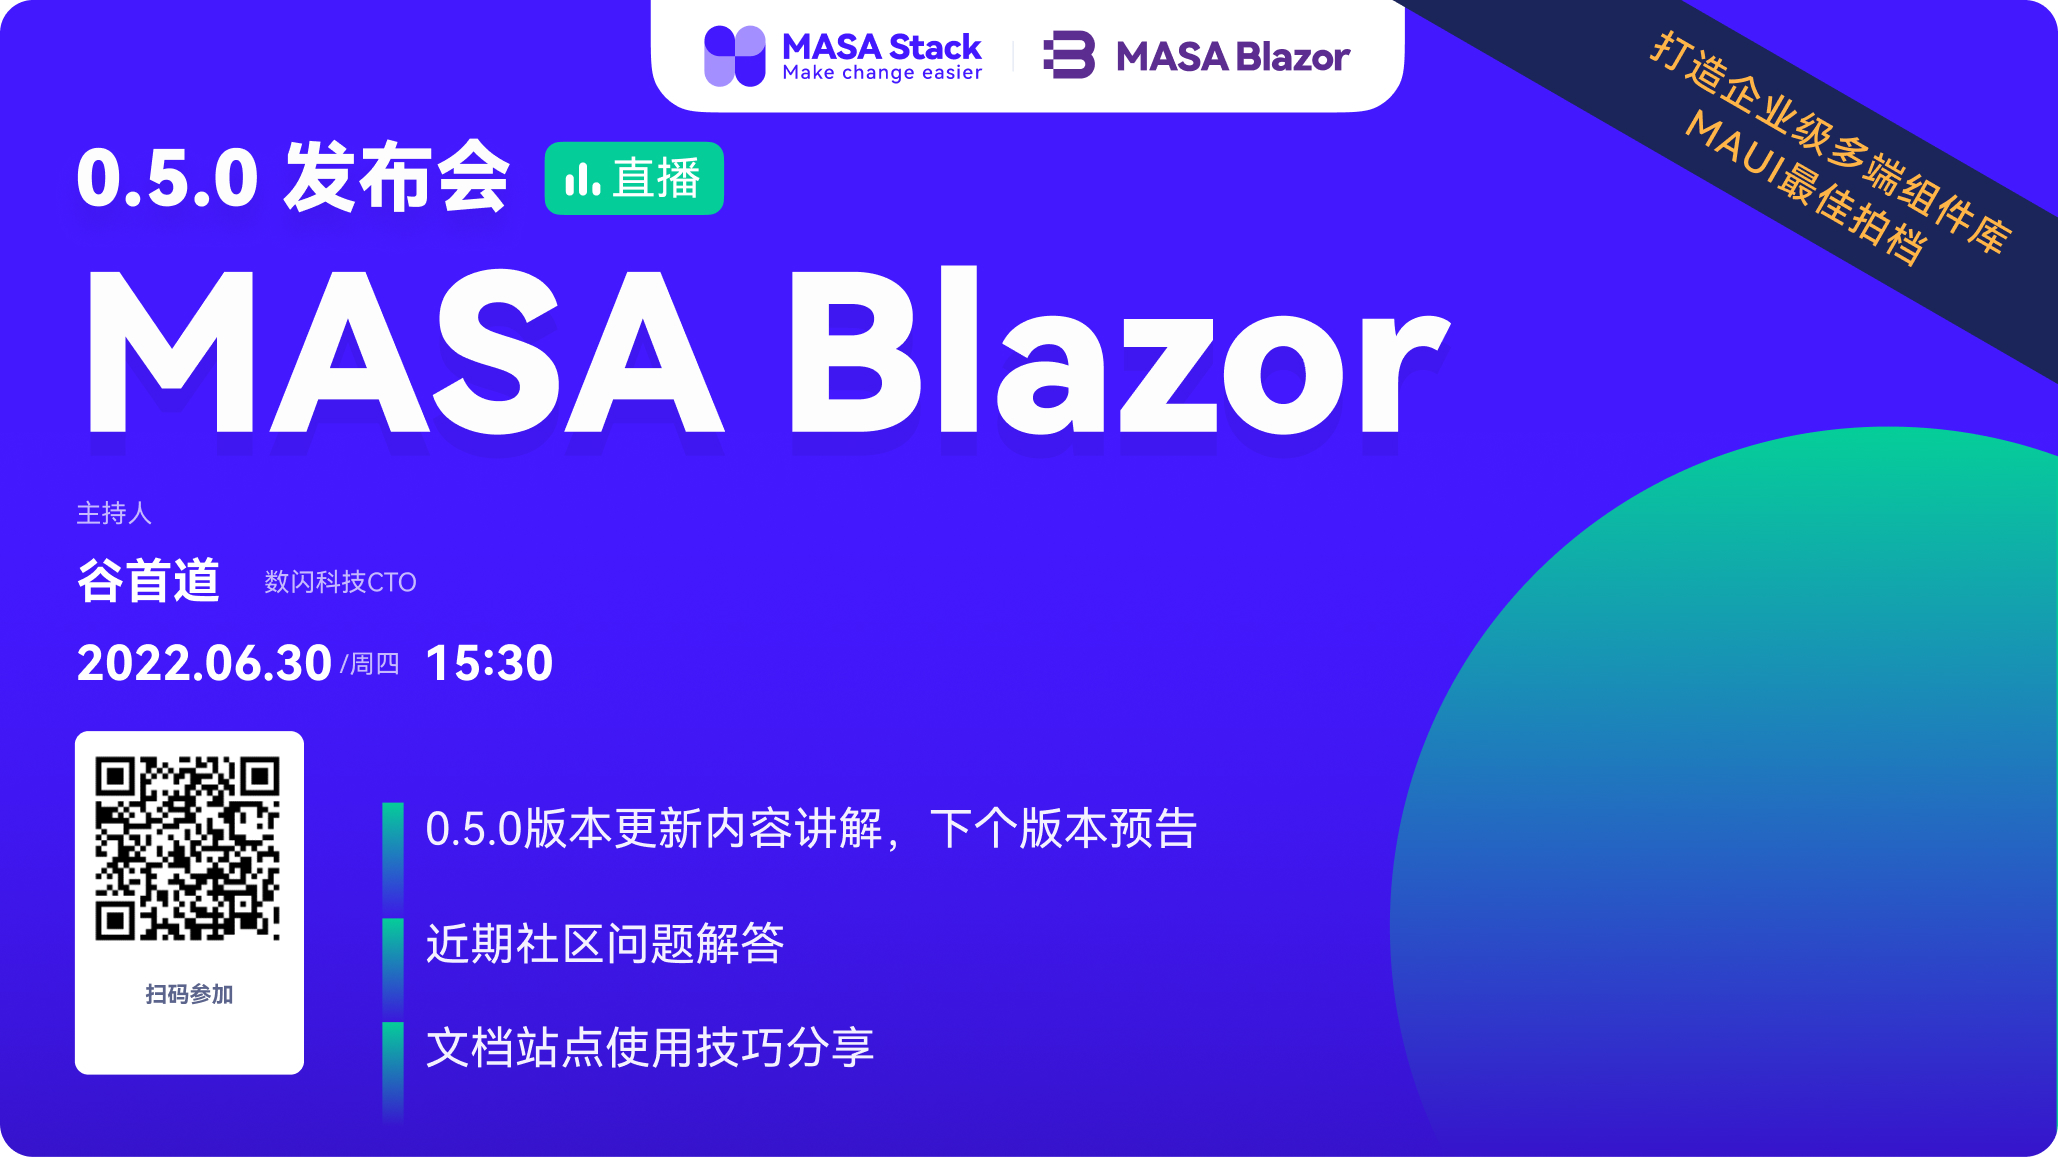
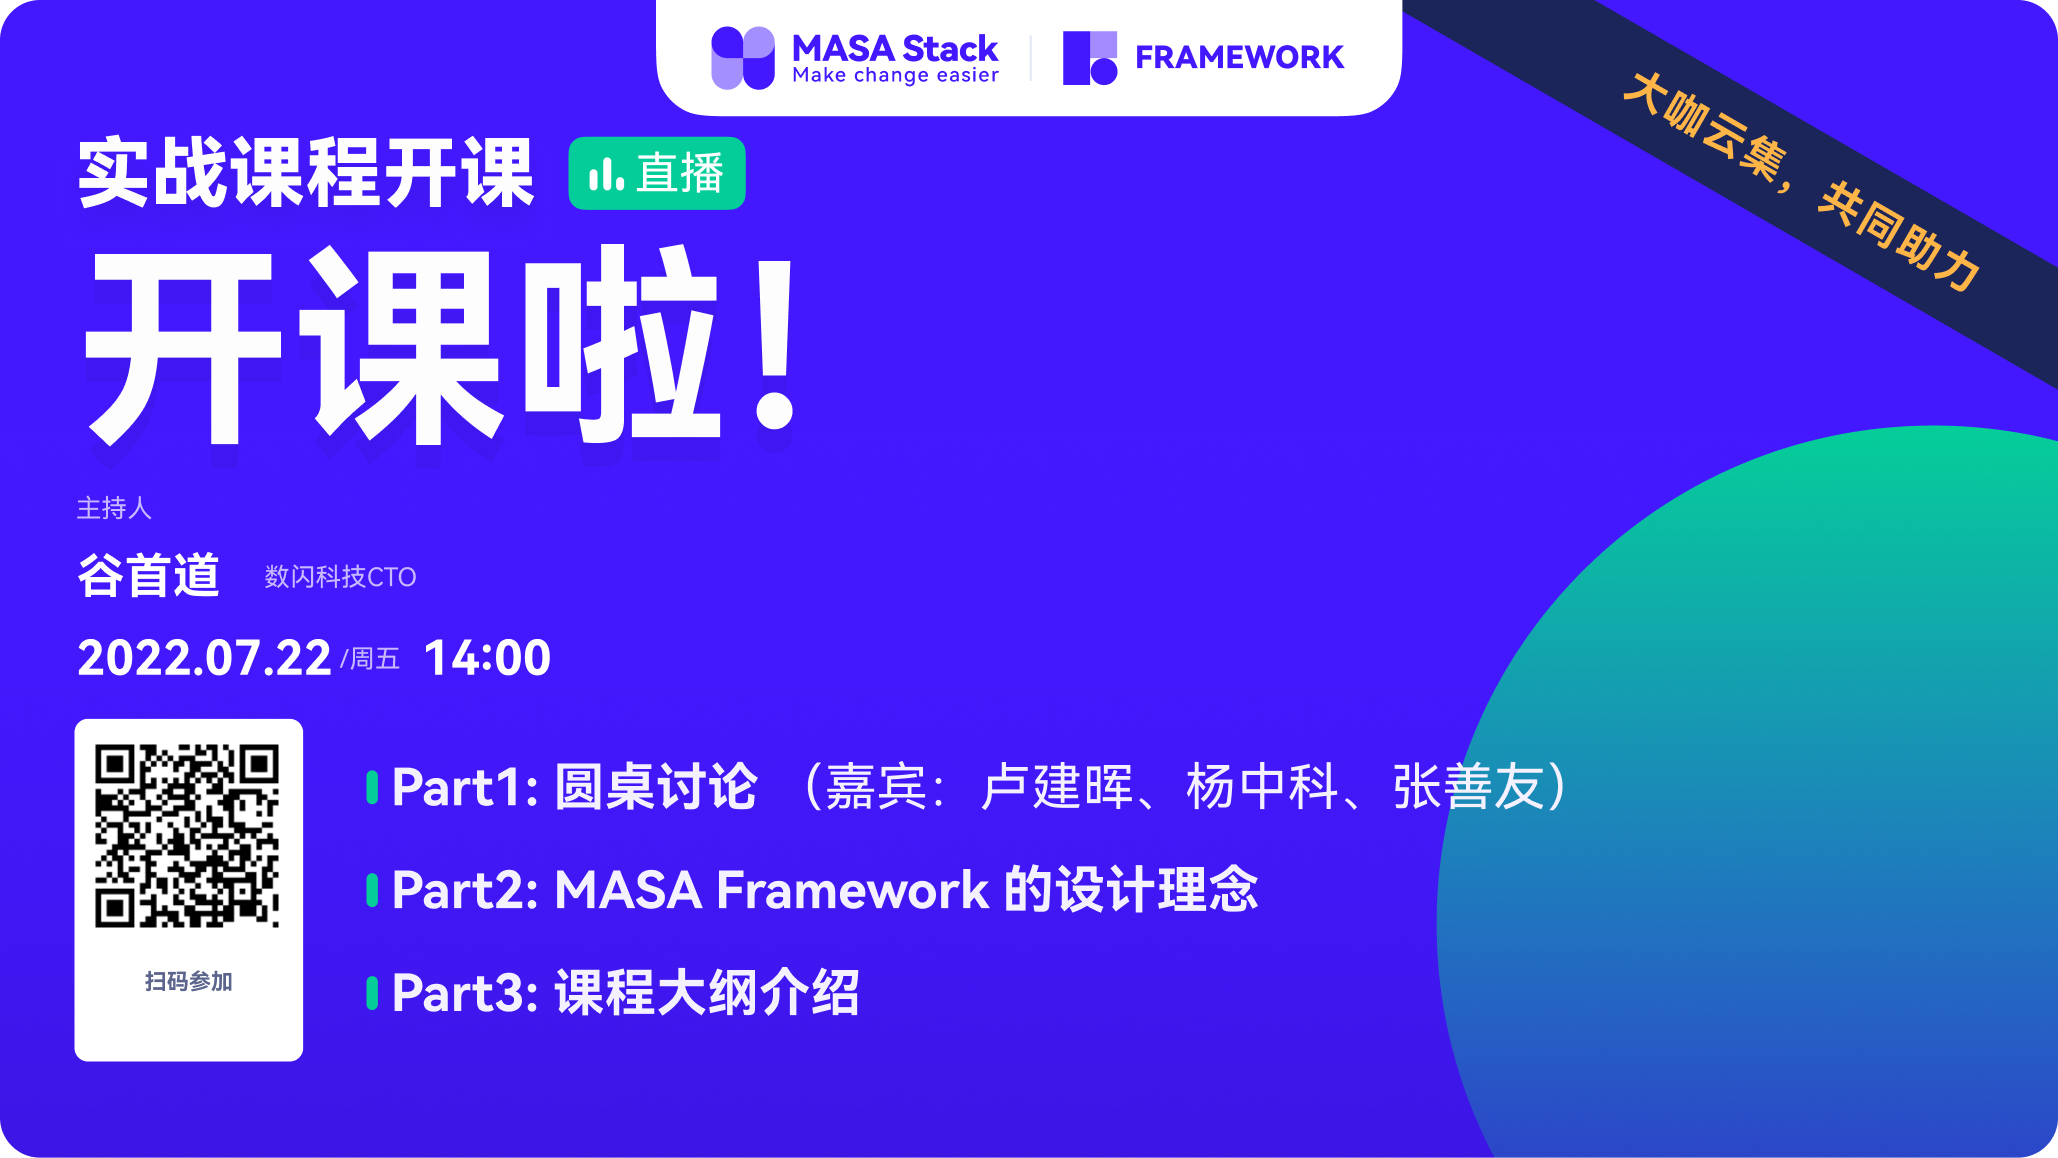
fix (#26)

diff --git a/src/MASA.OfficialWebsite.Shared/wwwroot/css/shared.css b/src/MASA.OfficialWebsite.Shared/wwwroot/css/shared.css
@@ -714,15 +714,19 @@ html {
         margin: 96px auto 0;
     }
 
-.activity-detail__button-text {
-    text-decoration: underline;
-    border-width: 0;
-    height: 36px;
-    font-size: 24px;
-    line-height: 36px;
-    padding: 0px 0px;
-    height: auto;
-}
+        .activity-detail__image-height{
+            height: 30vw;
+        }
+
+        .activity-detail__button-text {
+            text-decoration: underline;
+            border-width: 0;
+            height: 36px;
+            font-size: 24px;
+            line-height: 36px;
+            padding: 0px 0px;
+            height: auto;
+        }
 
 .website-shared .activity-content {
     max-width: 1596px;

diff --git a/src/MASA.OfficialWebsite.Shared/wwwroot/css/small-shared.css b/src/MASA.OfficialWebsite.Shared/wwwroot/css/small-shared.css
@@ -553,6 +553,10 @@
     width:auto;
 }
 
+.activity-detail__image-height {
+    height: 55vw;
+}
+
 .activity-detail__button-text {
     text-decoration: underline;
     border-width: 0;

diff --git a/src/MASA.OfficialWebsite.Shared/Pages/Activities.razor.cs b/src/MASA.OfficialWebsite.Shared/Pages/Activities.razor.cs
@@ -54,24 +54,9 @@ namespace MASA.OfficialWebsite.Shared.Pages
 
         private static readonly List<Activity> AllActivities = new()
         {
-            new Activity("MASA Blazor 社区例会", "基于Material Design , MAUI的最佳拍档",
+            new Activity("实战课程开课", "大咖云集，共同助力",
                 "_content/MASA.OfficialWebsite.Shared/images/activity2.jpg",
-                DateTime.Now, 2, ActivityType.Live),
-            new Activity("MASA Blazor 社区例会", "基于Material Design , MAUI的最佳拍档",
-                "_content/MASA.OfficialWebsite.Shared/images/activity2.jpg",
-                DateTime.Now.AddDays(-1), 3, ActivityType.Offline),
-            new Activity("MASA Blazor 社区例会", "基于Material Design , MAUI的最佳拍档",
-                "_content/MASA.OfficialWebsite.Shared/images/activity2.jpg",
-                DateTime.Now.AddDays(-2), 1, ActivityType.LookBack),
-            new Activity("MASA Blazor 社区例会", "基于Material Design , MAUI的最佳拍档",
-                "_content/MASA.OfficialWebsite.Shared/images/activity2.jpg",
-                DateTime.Now.AddDays(-3), 2, ActivityType.Live),
-            new Activity("MASA Blazor 社区例会", "基于Material Design , MAUI的最佳拍档",
-                "_content/MASA.OfficialWebsite.Shared/images/activity2.jpg",
-                DateTime.Now.AddDays(-4), 3, ActivityType.Offline),
-            new Activity("MASA Blazor 社区例会", "基于Material Design , MAUI的最佳拍档",
-                "_content/MASA.OfficialWebsite.Shared/images/activity2.jpg",
-                DateTime.Now.AddYears(-1), 1, ActivityType.LookBack)
+                new DateTime(2022, 7, 22), 2, ActivityType.Live)
         };
 
         private void CheckActivity(EventArgs eventargs, int index)
